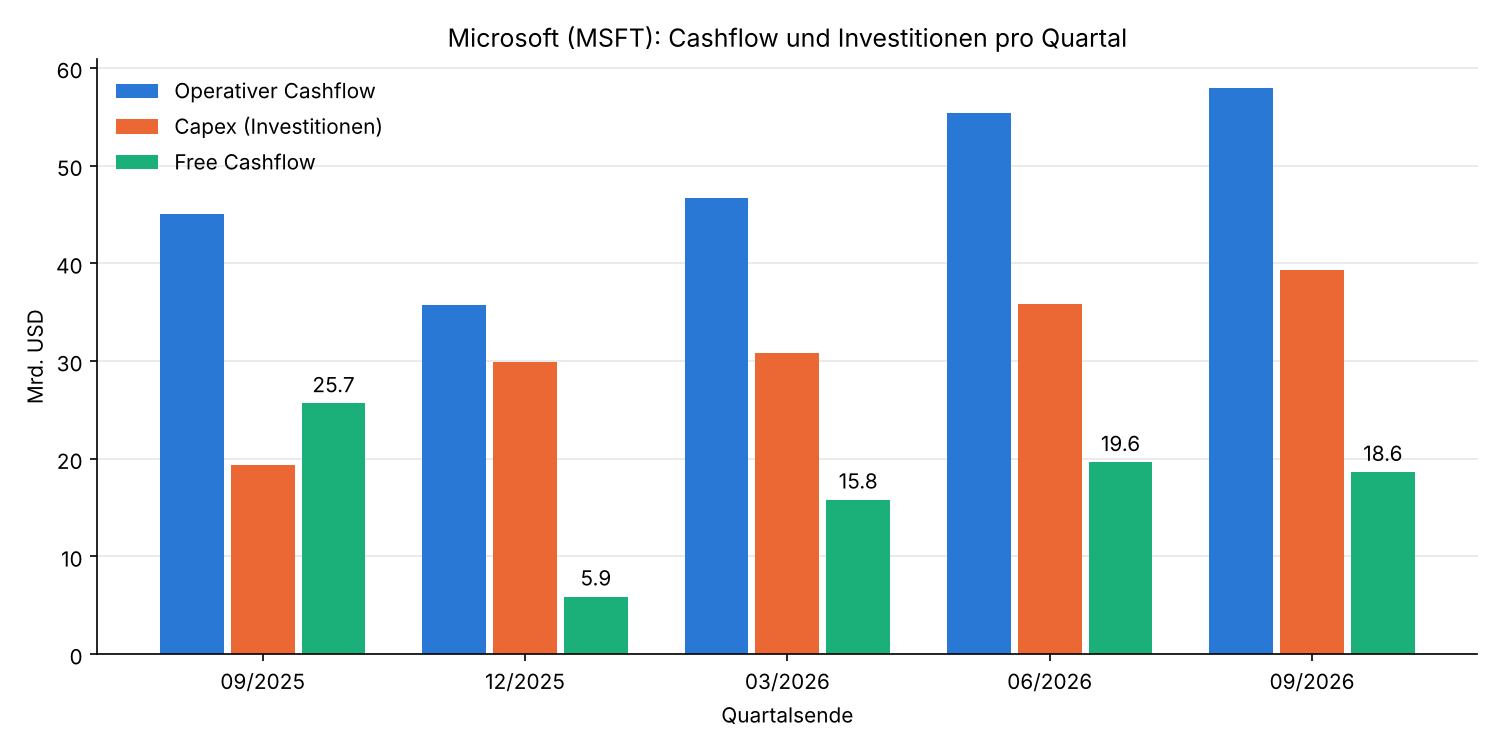
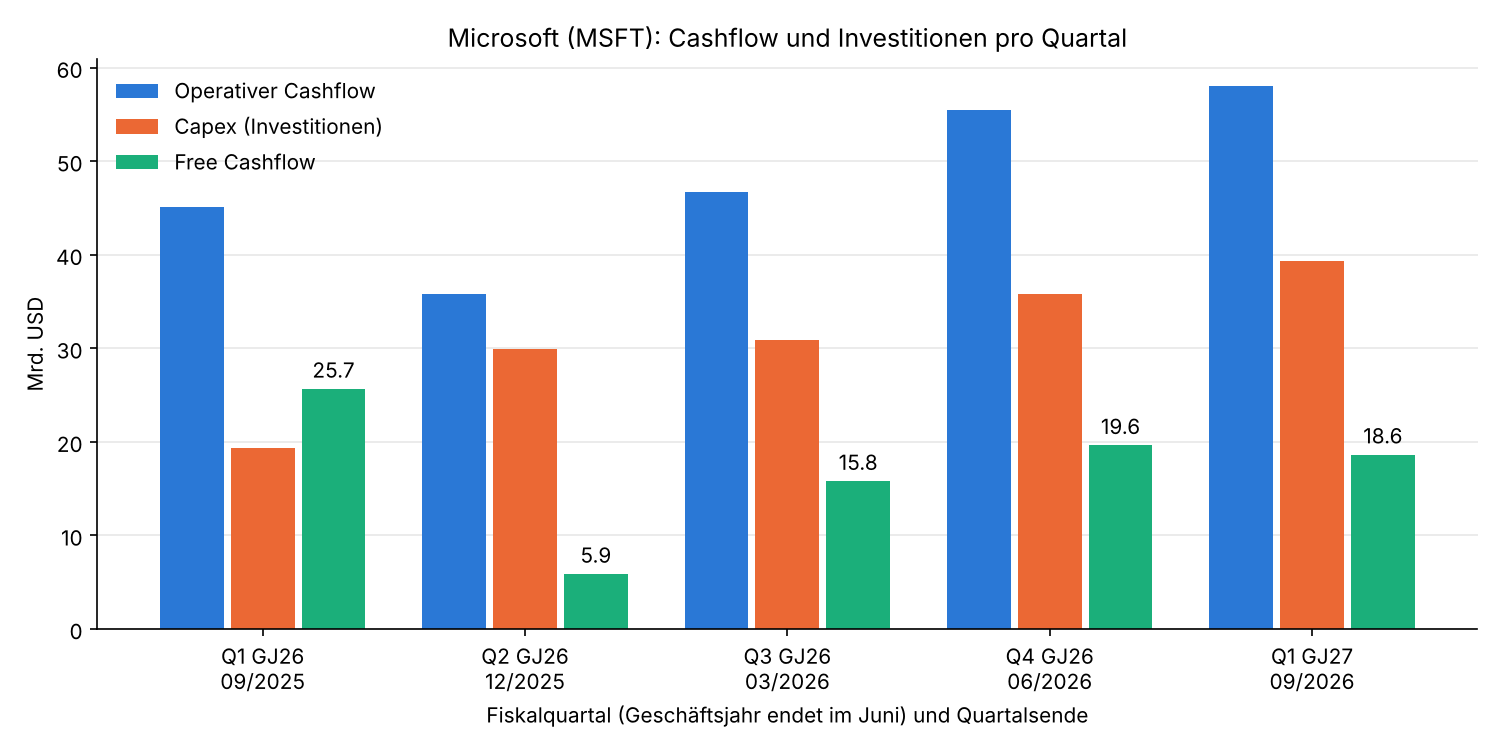
feat: label fiscal quarters in the cash flow plot
Microsoft's fiscal year ends in June, so calendar quarter ends alone are
easy to misread.

Claude-Session: https://claude.ai/code/session_01XM3y3Co3bpwVhAYVShkMYQ

diff --git a/data_exploration/03_plot_cashflow.py b/data_exploration/03_plot_cashflow.py
@@ -33,6 +33,17 @@ def load_cashflow():
     return cashflow
 
 
+def fiscal_label(quarter_end):
+    """Label a quarter end with Microsoft's fiscal quarter (year ends in June).
+
+    :param quarter_end: last day of the quarter (pandas Timestamp)
+    :return: two-line label, e.g. ``"Q1 GJ26\\n09/2025"``
+    """
+    fiscal_year = quarter_end.year + (quarter_end.month > 6)
+    fiscal_quarter = (quarter_end.month - 7) % 12 // 3 + 1
+    return f"Q{fiscal_quarter} GJ{fiscal_year % 100}\n{quarter_end:%m/%Y}"
+
+
 def plot(cashflow, path):
     """Draw grouped bars per quarter and label the free cash flow bars.
 
@@ -49,9 +60,9 @@ def plot(cashflow, path):
         if name == "Free Cash Flow":
             ax.bar_label(bars, fmt="%.1f", padding=3)
     ax.set_xticks(list(positions))
-    ax.set_xticklabels([d.strftime("%m/%Y") for d in cashflow.index])
+    ax.set_xticklabels([fiscal_label(d) for d in cashflow.index])
     ax.set_title("Microsoft (MSFT): Cashflow und Investitionen pro Quartal")
-    ax.set_xlabel("Quartalsende")
+    ax.set_xlabel("Fiskalquartal (Geschäftsjahr endet im Juni) und Quartalsende")
     ax.set_ylabel("Mrd. USD")
     ax.grid(axis="y", alpha=0.3)
     ax.set_axisbelow(True)
